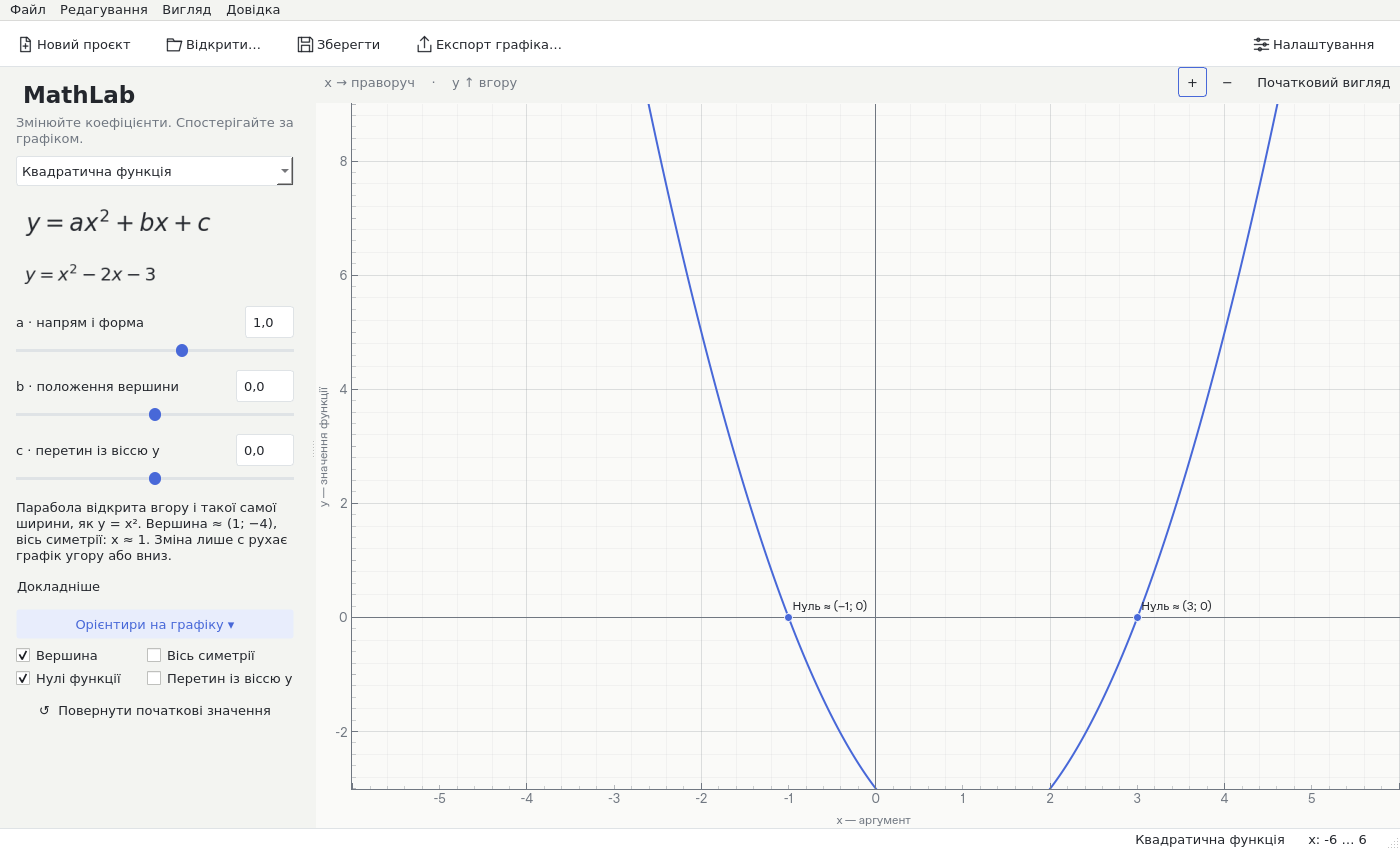
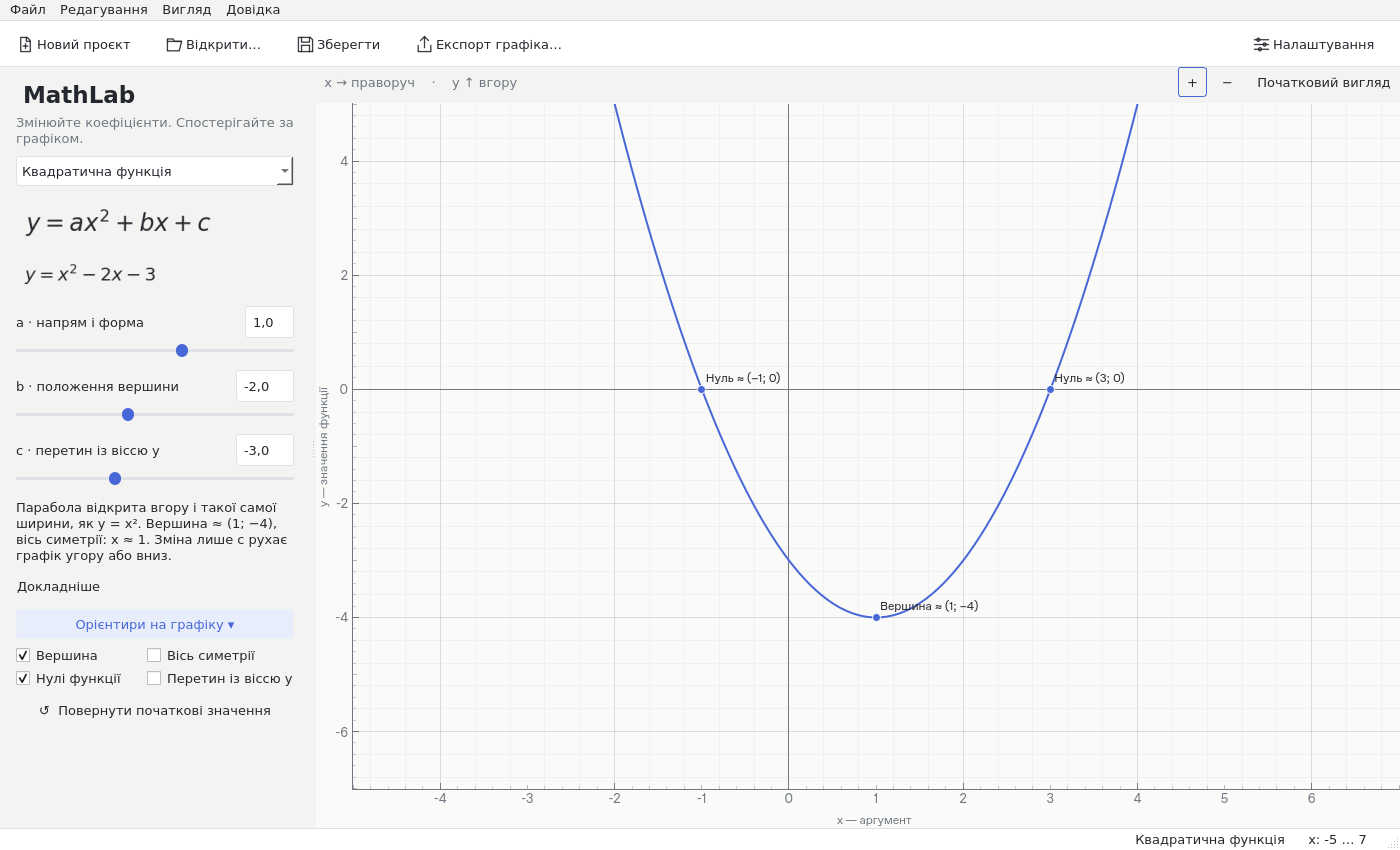
Record verified MathLab release and improve QA captures [skip ci]

diff --git a/scripts/capture_mathlab_qa.py b/scripts/capture_mathlab_qa.py
@@ -18,7 +18,9 @@ w=MainWindow(settings);w.show();QTest.qWait(260)
 w.grab().save(str(out/'quadratic-light.png'))
 w.learning.marker_button.setChecked(True)
 w.learning.toggles['vertex'].setChecked(True);w.learning.toggles['zeros'].setChecked(True)
-w.lab_coefficient_changed('b',-2);w.lab_coefficient_changed('c',-3)
+w.learning.controls['b'].value.setValue(-2)
+w.learning.controls['c'].value.setValue(-3)
+w.reset_view()
 QTest.qWait(260);w.grab().save(str(out/'quadratic-markers.png'))
 for key in ['exponential','logarithmic']:
     w.mode_selector.setCurrentIndex(w.mode_selector.findData(key));QTest.qWait(260)

diff --git a/docs/mathlab-validation.md b/docs/mathlab-validation.md
@@ -71,3 +71,38 @@ collection (16.99 seconds of scripted interaction). It is not an hours-long test
 A custom formula with the same algebraic form as a laboratory retains its own parameter bounds. Entering a laboratory creates an independent record when those bounds differ; this is covered by core and GUI regression tests.
 
 Decimal discriminants are computed as exact rational values before numerical marker coordinates, preventing a false missing double root from floating cancellation. Coincident vertex/root/intercept markers share one visible point. Both cases have regressions.
+
+## Published Windows release
+
+[PR #1](https://github.com/FoRe1n/MathGraph/pull/1) was merged through GitHub after
+native Windows checks passed on final feature commit
+`fa5a144fd69561f6c20226742f09bfe270cbe11a`. Release tag `mathlab-v1.0.0` points to
+merge commit `708df641ea73f8dac1082340beca5bed8de38938`.
+
+[Release workflow 39990444777](https://github.com/FoRe1n/MathGraph/actions/runs/39990444777)
+completed the full Windows build and publication successfully: 147 tests,
+benchmarks, actual Qt captures, source smoke, resource verification, frozen
+MathLab.exe smoke and ZIP packaging. GitHub confirms the public non-draft
+[MathLab v1.0.0 release](https://github.com/FoRe1n/MathGraph/releases/tag/mathlab-v1.0.0)
+with the Windows ZIP and SHA256SUMS uploaded.
+
+Anonymous HTTP download returned 200 for the complete **92,892,697-byte** ZIP.
+All **1,497 entries** passed ZIP CRC verification. The PE header identifies
+**Windows AMD64**; qwindows.dll, mathematical fonts, Ukrainian Qt translations,
+LGPL text and the license inventory are present. Published SHA256:
+
+```
[1 lines of base64/hex data omitted]
+```
+
+The GraphMath `v1.0.0` tag remains at
+`e62c843ad458a3a6ee77712c869cf984fc8d86fc`, and its original ZIP remains uploaded.
+The feature branch and full commit history are retained. Main includes current
+release documentation and visual QA captures driven through the real coefficient
+controls; the screenshot driver resets the viewport to show the chosen vertex.
+
+Remaining limits: builds are unsigned; physical Windows desktop interaction,
+hardware/compositor FPS and hours-long memory behavior were not measured here.
+The 5,000-step offscreen memory observation is reported with its actual duration.
+Symbolic analysis retains its eight-second limit, and a finite numerical sampler
+cannot resolve every arbitrarily narrow or high-frequency feature.

diff --git a/README.md b/README.md
@@ -8,10 +8,14 @@ Choose a function, move its coefficients, and see both the curve and an explanat
 
 ## Windows distribution
 
-The new release target is **MathLab v1.0.0**, tag `mathlab-v1.0.0`, with portable
-`MathLab-v1.0.0-Windows-x64.zip` and `MathLab.exe`. The native Windows workflow
-must pass tests, resource checks and the frozen application smoke test before it
-publishes. Check [Releases](https://github.com/FoRe1n/MathGraph/releases) for status.
+**[Download MathLab v1.0.0 for Windows x64 (ZIP)](https://github.com/FoRe1n/MathGraph/releases/download/mathlab-v1.0.0/MathLab-v1.0.0-Windows-x64.zip)**
+([release notes and SHA256](https://github.com/FoRe1n/MathGraph/releases/tag/mathlab-v1.0.0)).
+Extract the entire folder and double-click **MathLab.exe**. Python is not required.
+
+[Native Windows release CI](https://github.com/FoRe1n/MathGraph/actions/runs/39990444777)
+passed all 147 tests, offscreen benchmarks, source/frozen smoke checks and resource
+verification. The public ZIP was downloaded without authentication and its SHA256,
+all ZIP entries and Windows AMD64 executable header were independently verified.
 
 The original [GraphMath v1.0.0 release](https://github.com/FoRe1n/MathGraph/releases/tag/v1.0.0)
 and its tag remain available. Internal `graphmath` imports, the expression engine,
